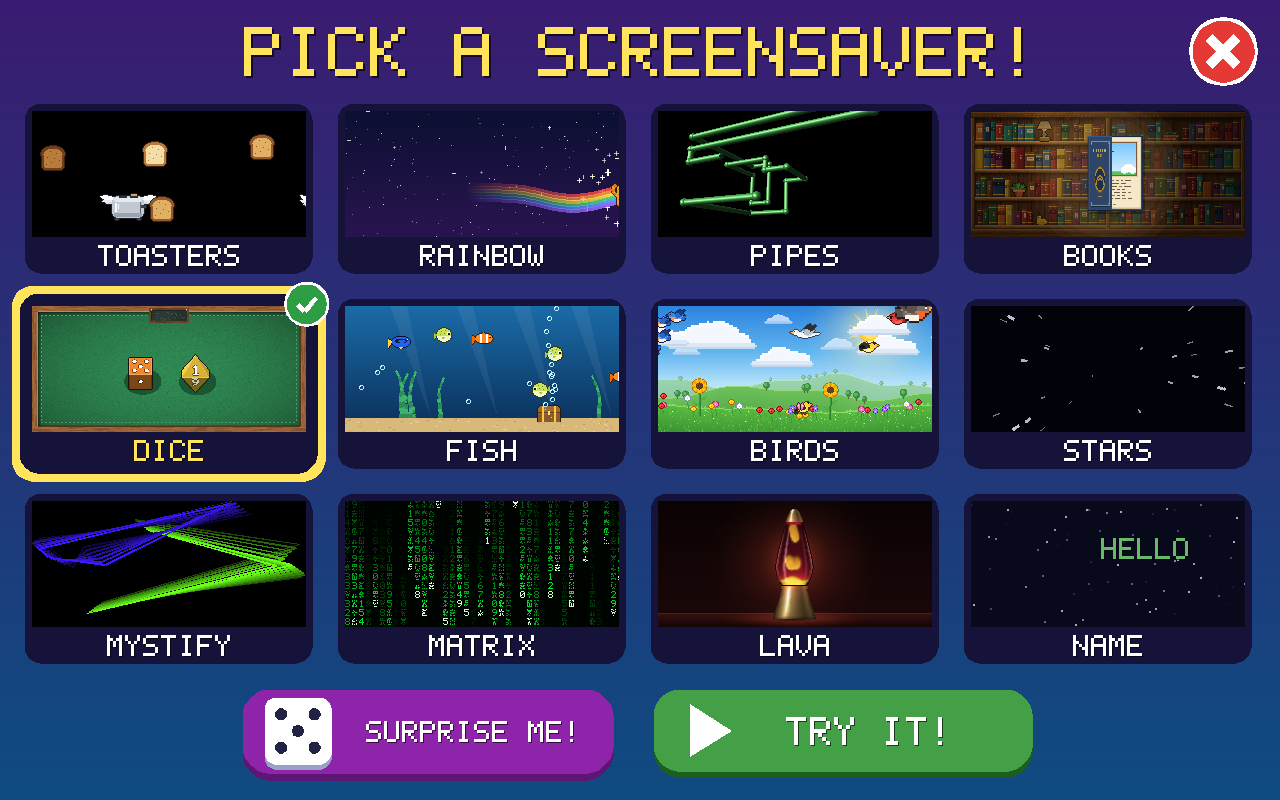
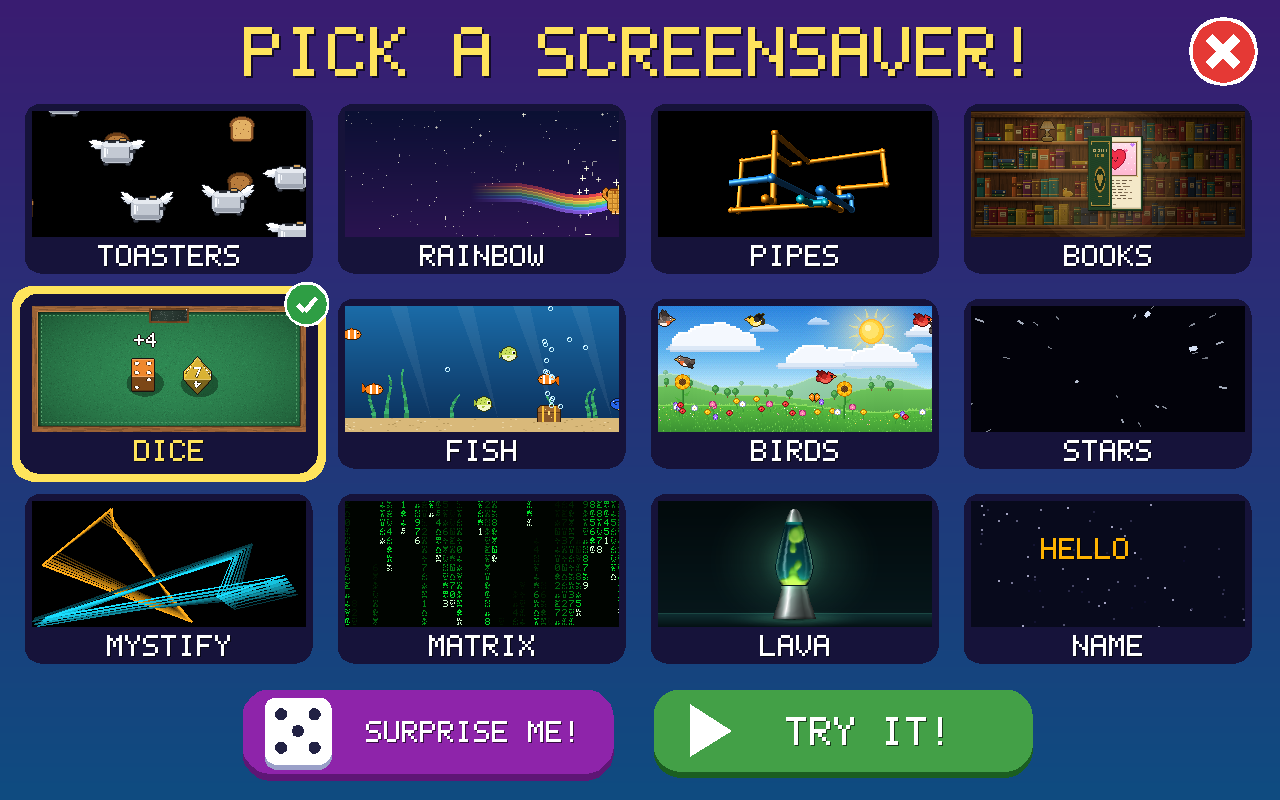
DICE: the handful is thrown together; every visible face fully printed
Dice used to arrive one at a time, 2.2 s apart; now the whole handful comes in
as one throw (the far slot still fills first so they don't cross). Numbers and
pips no longer fade on faces turned away from the viewer.

diff --git a/src/savers/dice.c b/src/savers/dice.c
@@ -1,6 +1,6 @@
 /* DICE: a felt dice tray with true 3D polyhedral dice (d6, d8, d10, d12, d20).
-   The dice tumble and bounce in 3D across the felt one at a time, each landing
-   cleanly to show its roll. Then, with deliberate pauses so a six-year-old has time
+   A handful is thrown together and tumbles and bounces in 3D across the felt, each
+   die landing cleanly to show its roll. Then, with deliberate pauses so a six-year-old has time
    to calculate and frontrun the math, each result flies up to the chalkboard.
    Only a natural 20 on a d20 triggers the gold glow, rays, confetti and "CRIT!",
    and only a natural 1 on a d20 gets the grumpy cloud and "WOMP". */
@@ -607,9 +607,8 @@ static float seg_d2(const Seg *g, float x, float y) {
 /* A number printed on a face, centred on (ox, oy): its text axes are right/up (model
    space) and a digit is 7 * px tall, so it foreshortens and turns with the face. */
 static void face_number(Dice *d, const Die *e, float ox, float oy, Vec3 right, Vec3 up, float px,
-                        int value, uint32_t face, uint32_t ink, float a) {
-    uint32_t rim = mixc(face, shade(face, 0.42f), a);
-    ink = mixc(face, ink, a);
+                        int value, uint32_t face, uint32_t ink) {
+    uint32_t rim = shade(face, 0.42f);
     char s[4];
     snprintf(s, sizeof s, "%d", value);
     int n = (int)strlen(s), bar = value == 6 || value == 9;
@@ -647,7 +646,7 @@ static void face_number(Dice *d, const Die *e, float ox, float oy, Vec3 right, V
 }
 
 /* A pip: a disc on the face at (u, v) in the face's own units, with a dark rim. */
-static void face_pip(Dice *d, const Die *e, float ox, float oy, const PolyFace *fc, float u, float v, uint32_t face, float a) {
+static void face_pip(Dice *d, const Die *e, float ox, float oy, const PolyFace *fc, float u, float v, uint32_t face) {
     float R = (float)(d->R * FINE), Ax, Ay, Bx, By;
     to_screen(e, R, v_scale(fc->right, fc->ri), &Ax, &Ay);
     to_screen(e, R, v_scale(fc->up, -fc->ri), &Bx, &By);
@@ -658,8 +657,8 @@ static void face_pip(Dice *d, const Die *e, float ox, float oy, const PolyFace *
         for (int x = (int)floorf(pcx - ext); x <= (int)ceilf(pcx + ext); x++) {
             float dx = x + 0.5f - pcx, dy = y + 0.5f - pcy;
             float lu = (dx * By - dy * Bx) / det, lv = (Ax * dy - Ay * dx) / det, q = lu * lu + lv * lv;
-            if (q < 0.19f * 0.19f) put(&d->fine, x, y, rgb(mixc(face, 0xFFFFFF, a)));
-            else if (q < 0.26f * 0.26f) put(&d->fine, x, y, rgb(mixc(face, shade(face, 0.45f), a)));
+            if (q < 0.19f * 0.19f) put(&d->fine, x, y, rgb(0xFFFFFF));
+            else if (q < 0.26f * 0.26f) put(&d->fine, x, y, rgb(shade(face, 0.45f)));
         }
 }
 
@@ -746,19 +745,13 @@ static void draw_3d_die(Dice *d, const Die *e, float cx, float cy) {
 
         /* Print the face: pips on the d6, a number by each corner on the d4 (the top
            corner's number is the roll, as on a real d4), one number in the middle on the
-           rest. Every face always carries the same print; as a face turns away its print
-           fades into the face colour (squashed pixel digits read as noise), so nothing
-           pops in or out. */
-        float facing = v_dot(nrot, v_norm(vec3(0, 0.85f, 1)));
-        float lo = e->kind == D6 ? 0.2f : e->kind == D4 ? 0.15f : 0.45f;
-        float ink_a = ease((facing - lo) / 0.3f);
-        if (ink_a < 0.04f) continue;
+           rest. Every visible face shows its print in full, like a real die. */
         float fcx, fcy;
         to_screen(e, R, fc->c, &fcx, &fcy);
         fcx += ocx; fcy += ocy;
         if (e->kind == D6) {
             for (int p = 0; p < fc->value; p++)
-                face_pip(d, e, fcx, fcy, fc, PIPS[fc->value][p][0], PIPS[fc->value][p][1], col, ink_a);
+                face_pip(d, e, fcx, fcy, fc, PIPS[fc->value][p][0], PIPS[fc->value][p][1], col);
         } else if (e->kind == D4) {
             for (int k = 0; k < 3; k++) {
                 Vec3 vtx = m->verts[fc->idx[k]], toward = v_norm(v_sub(vtx, fc->c));
@@ -766,14 +759,14 @@ static void draw_3d_die(Dice *d, const Die *e, float cx, float cy) {
                 float px, py;
                 to_screen(e, R, at, &px, &py);
                 face_number(d, e, px + ocx, py + ocy, v_cross(fc->normal, toward), toward,
-                            fc->ri * 0.95f / FONT_H, fc->idx[k] + 1, col, 0xFFFFFF, ink_a);
+                            fc->ri * 0.95f / FONT_H, fc->idx[k] + 1, col, 0xFFFFFF);
             }
         } else {
             char s[4];
             snprintf(s, sizeof s, "%d", fc->value);
             float tw = (float)glyphs_w(s, 1), px = fminf(1.3f * fc->ri / FONT_H, 1.75f * fc->ri / tw);
             uint32_t ink = (e->kind == D20 && fc->value == 20 && e->settled && f == topf) ? 0xFFE04A : 0xFFFFFF;
-            face_number(d, e, fcx, fcy, fc->right, fc->up, px, fc->value, col, ink, ink_a);
+            face_number(d, e, fcx, fcy, fc->right, fc->up, px, fc->value, col, ink);
         }
     }
 }
@@ -913,8 +906,8 @@ static void new_roll(Dice *d) {
     if (cols * px > x1 - x0) px = (x1 - x0) / cols;
     float dir = d->fromLeft ? 1.0f : -1.0f;
 
-    /* Pacing: roll 1 die at a time so each roll has its own individual spotlight */
-    float roll_interval = 2.2f;
+    /* The handful is thrown together: each die a split second behind the last. */
+    float roll_interval = 0.14f;
     for (int i = 0; i < n; i++) {
         Die *e = &d->die[i];
         memset(e, 0, sizeof *e);

diff --git a/README.md b/README.md
@@ -45,7 +45,7 @@ Twelve screensavers, plus a SURPRISE ME button that picks a random one each time
 - **RAINBOW**: the Waffle Cat flies across the night sky on a wavy rainbow. Every so often it shimmers, goes *poof*, rainbow lines zoom across the screen, and it pops back out at the end of the rainbow. (Invented by a six-year-old.)
 - **PIPES**: shiny 3D pipes grow through a grid, then fade and start again.
 - **BOOKS**: a cozy lamplit bookshelf. Books slide out, float to the middle, open to a little animated picture, and fly back to their spot.
-- **DICE**: 3D dice (d6, d8, d10, d12 and d20) tumble onto a felt tray one at a time. Then each number flies up to a chalkboard, slowly enough for a kid to add them up first. A natural 20 on the d20 gets gold rays, confetti and "CRIT!"; a natural 1 gets a grumpy rain cloud.
+- **DICE**: 3D dice (d6, d8, d10, d12 and d20) are thrown together onto a felt tray. Then each number flies up to a chalkboard, slowly enough for a kid to add them up first. A natural 20 on the d20 gets gold rays, confetti and "CRIT!"; a natural 1 gets a grumpy rain cloud.
 - **FISH**: clownfish, a blue tang, a pufferfish, seaweed and a bubbling treasure chest.
 - **BIRDS**: a sunny summer sky with bluebirds, cardinals, finches and robins flying over a flower meadow. (Also requested by a six-year-old.)
 - **STARS**: a warp-speed starfield.
